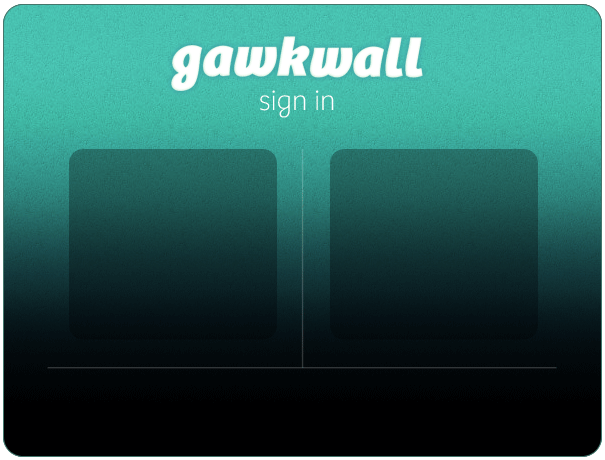
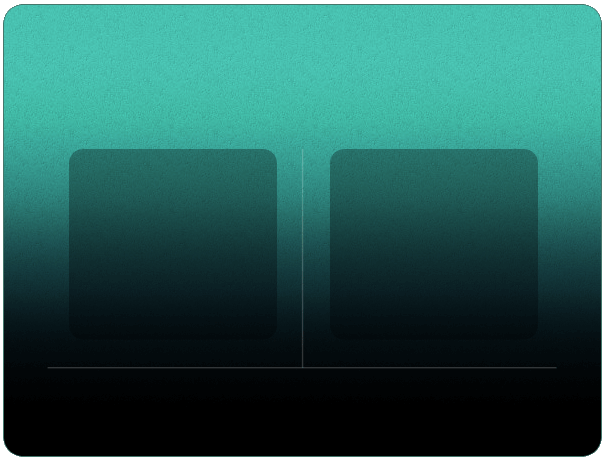
Cosmetic

Changed region(s): [[0.2678, 0.0609, 0.714, 0.2435], [0.0, 0.9435, 1.0, 1.0], [0.0893, 0.7913, 0.9223, 0.8217]]

diff --git a/Site/Root/resource/css/global.css b/Site/Root/resource/css/global.css
@@ -138,6 +138,20 @@ div.view-container {
 	height: 460px;
 }
 
+#login-overlay h2 {
+	background: url("/resource/image/sprite.png?v=@VERSION-NUMBER@") no-repeat -140px -256px;	
+	display: block;
+	width: 259px;
+	height: 90px;
+	position: absolute;
+	left: 174px;
+	top: 32px;
+}
+
+#login-overlay h2 span {
+	display: none;
+}
+
 #login-overlay .site-registered {
 	position: absolute;
 	top: 160px;

diff --git a/Site/Root/resource/css/wall-view.css b/Site/Root/resource/css/wall-view.css
@@ -106,3 +106,9 @@ div.wall-controls .wall-select select {
 	font-size: 13px;
 	padding: 5px 6px 5px 5px;
 }
+
+#gawk-main-wall-overlay {
+	background: url("/resource/image/default-overlay-background.png?v=@VERSION-NUMBER@");
+	width: 605px;
+	height: 460px;
+}

diff --git a/Site/Template/Default/Main.php b/Site/Template/Default/Main.php
@@ -86,6 +86,7 @@ include "Site/Template/Default/Widget/Footer.php";
 		</div>
 		<div style="display: none;">
 			<div class="overlay" id="login-overlay">
+				<h2><span>sign in</span></h2>
 				<div class="site-registered">
 					<form method="post" class="login">
 						<div class="login-error" style="display: none;">
